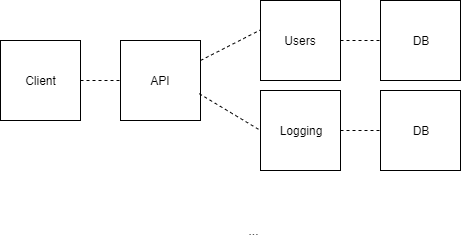
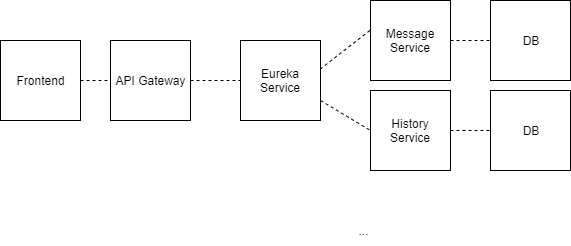
maly update dokumentacji

diff --git a/README.md b/README.md
@@ -25,7 +25,7 @@ Stos technologiczny:
 - Backend: Java + Spring
 - Frontend: Javascript + React
 - Konteneryzacja: Docker
-- Zarządzenie Kontenerami: Kubernetes
+- Zarządzenie Kontenerami: Docker swarm
 
 Analiza wymagań
 Wymagania funkcjonalne i niefunkcjonalne - specyfikacja
@@ -37,7 +37,8 @@ System musi być skalowalny.
 System loguje aktywność użytkowników (logowanie oraz wysłanie wiadomości).
 System autoryzuje użytkowników.
 System umożliwia rejestracje użytkowników.
-TODO
+System umożliwa przesyłanie wiadomości
+System zapisuje wiadomości w histori
 
 Przypadki użycia
 TODO

diff --git a/projekt/README.md b/projekt/README.md
@@ -18,3 +18,6 @@ docker run -p 8082:8082 docker-history-service
 front
 docker build -t docker-front .
 docker run -it -p 3000:80 docker-front
+
+docker swarm
+docker swarm join --token SWMTKN-1-3utn48r6f82o8dq3s6y1xanhaudbrhhy7nu5hw79zgkc83yufz-6ua293in1pq3l4vpdeep3f2xr 10.0.2.15:2377
